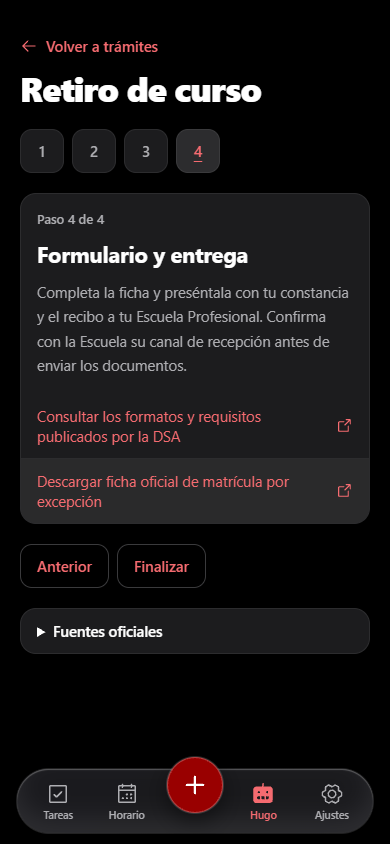
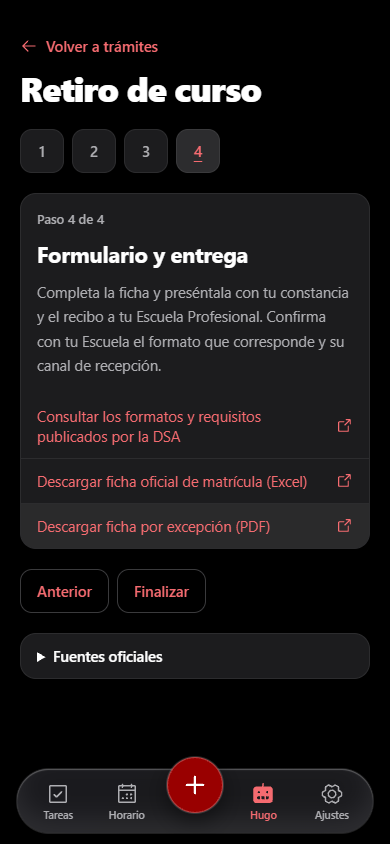
fix(guidance): provide the verified enrollment form download

diff --git a/docs/testing/us12-university-procedure-guides.md b/docs/testing/us12-university-procedure-guides.md
@@ -24,8 +24,10 @@ The payment code is generated in UNSAPay using the student's institution account
 and selected concept. The catalog supplies the concept and official link. The
 published term window is historical as of the review date. Current exceptions
 and later windows are controlled by the relevant UNSA school, not by the app.
-The withdrawal guide includes both the form URL published by the DSA and its
-source page for cases where the direct download is unavailable.
+The withdrawal guide links the PDF posted on the withdrawal page and the
+[Excel enrollment form](https://vra.unsa.edu.pe/dsa/wp-content/uploads/sites/3/2026/07/FICHA_DE_REGISTRO_DE_MATRI%CC%81CULA.xlsx)
+published by the DSA, which downloaded successfully during review. Confirm the
+format the school accepts. The direct PDF host timed out during verification.
 
 ## Data contract
 
